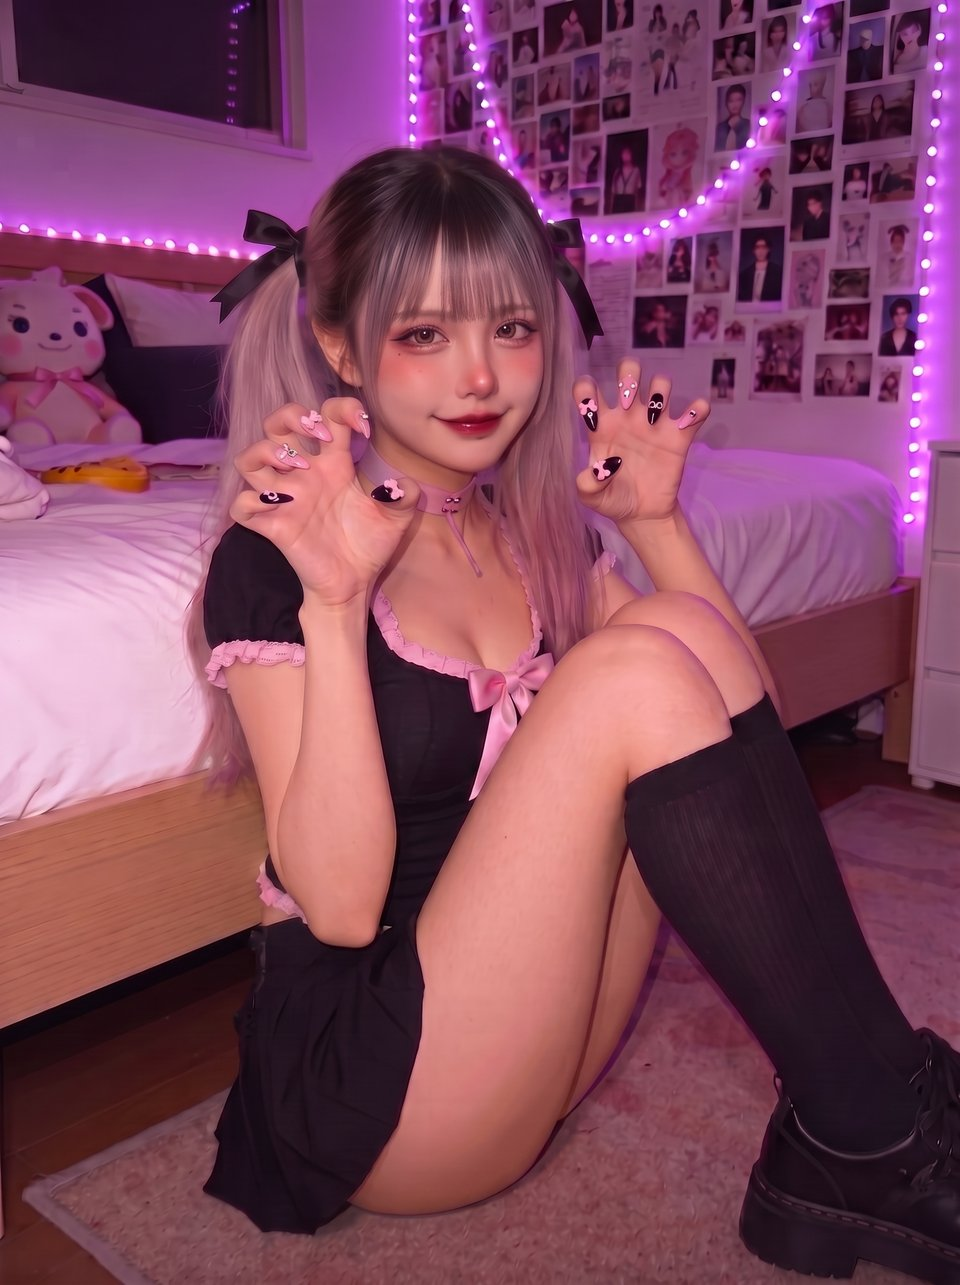
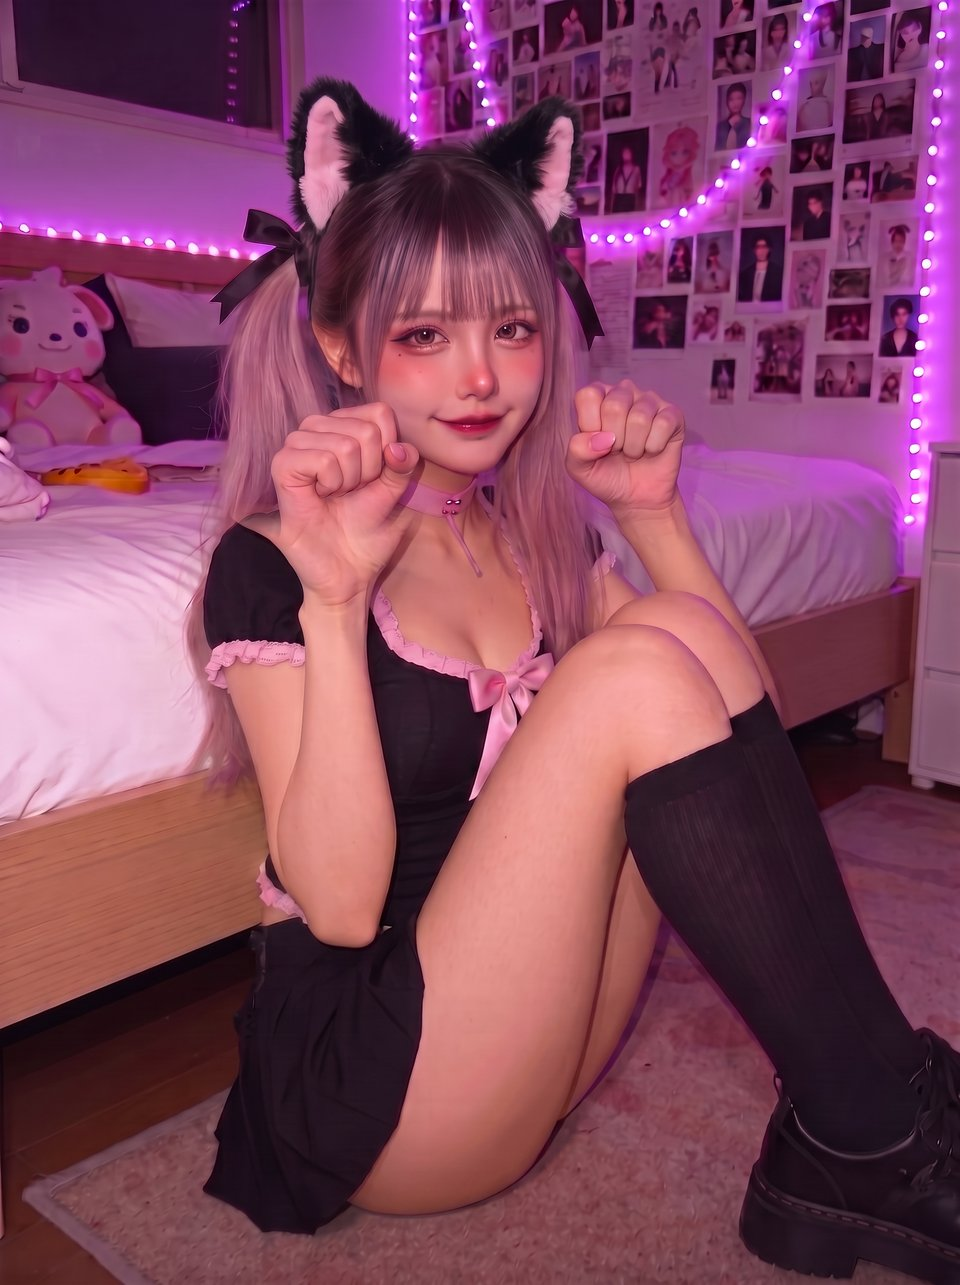
Kanon post 3 (K-01) final: cat ears and neko paws, no tail; catalog updated
Claude-Session: https://claude.ai/code/session_01Ew2uW1TgMHtHduaG53aSna

diff --git a/production/modeling_runs/2026-10-12_pioneer4/catalog/index.html b/production/modeling_runs/2026-10-12_pioneer4/catalog/index.html
@@ -163,7 +163,7 @@ footer{margin-top:40px;font-size:12.5px;color:var(--muted);display:grid;gap:4px}
 沒發現的話今晚就罰你被花音小惡魔吵到不能睡覺😈💢🔔💤</p>
       </figure>
       <figure class="photo">
-        <img src="img/kanon.jpg" alt="Kanon 定稿：灰粉漸層雙馬尾、黑蝴蝶結、地雷妝紅唇，坐在臥室地板做貓爪手勢，指甲是黑粉美甲" loading="lazy">
+        <img src="img/kanon.jpg" alt="Kanon 第三則：灰粉漸層雙馬尾、黑蝴蝶結、戴黑色貓耳髮箍，地雷妝紅唇，坐在臥室地板比貓貓手" loading="lazy">
         <p class="quote">喵～抓到哥哥了🐾😼
 從今天開始哥哥就是花音的貓奴，不准再去按別人的讚喔💢💢
 …騙你的啦🤪

diff --git a/production/modeling_runs/2026-10-12_pioneer4/REPORT.md b/production/modeling_runs/2026-10-12_pioneer4/REPORT.md
@@ -2780,3 +2780,9 @@ Scene: cream brick wall with dark wood beams, blue sky with clouds at the top le
   - ⚠ 尾巴從她右肩旁的床上往上翹，尾巴根部淡進床面，沒有明確接到她身上。
 - 狀態：候選，等製作師決定。
 - 點數：4 點（加上前一次 NSFW 的 0 點）。
+
+## 定稿（2026-10-14，製作師決定）：Kanon 第 3 則（K-01）用圖 ＝ 貓耳＋貓貓手、無尾巴
+
+- 製作師：直接把貓尾去掉。本機用 3e583c07（只改手、無尾巴）的同位置像素蓋掉 f891e23c 的尾巴（差異遮罩＋羽化），再合回原圖。尾巴處補回床與牆，看不出痕跡。
+- 鏈：f23ccb87＋本機膚色 → 本機淚痣移右眼 → 裁上半部 → 3e583c07（貓貓手、去美甲）→ f891e23c（貓耳、貓尾）→ 本機去尾巴、合回原圖。
+- 最終檔：`社群媒體/kanon/kanon_post3_k01_catears.jpg`（1792×2400，JPEG 品質 95）。前一版 `kanon_v2_jobf23ccb87_skinfix_mole.jpg` 保留備查。型錄 `catalog/img/kanon.jpg` 已更新。
